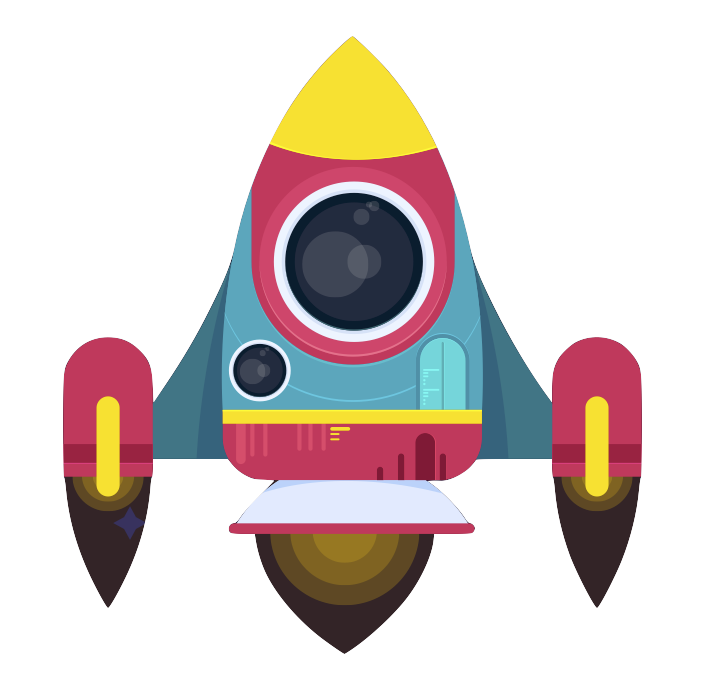
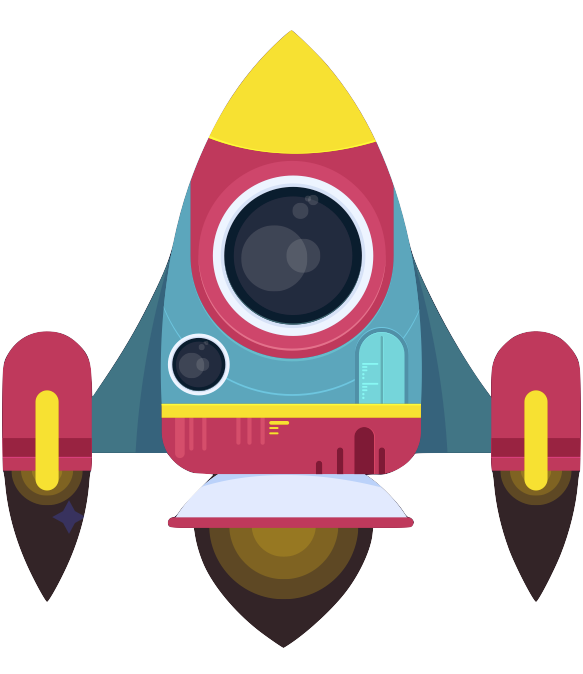
added shooting from ship

Changed region(s): [[0.0, 0.0312, 1.0, 0.9659], [0.5249, 0.3427, 0.5557, 0.405]]

diff --git a/index.html b/index.html
@@ -48,6 +48,7 @@
     const asteroid4 = document.getElementById("asteroid4")
     const gameWhere = game.getBoundingClientRect()
     const gameLeft = gameWhere.left
+    const gameHeight = gameWhere.height
     const asteroidWhere1 = asteroid1.getBoundingClientRect()
     const asteroidWhere2 = asteroid2.getBoundingClientRect()
     const asteroidWhere3 = asteroid3.getBoundingClientRect()
@@ -93,8 +94,6 @@
     function moveBullets() {
         for (bullet of bullets) {
             let bottomStr = bullet.style.bottom
-            console.log("bottomstr", bottomStr)
-            console.log("bottom", bottomStr.slice(0, -2))
             if (bottomStr.endsWith("vh")) {
             bottomStr = bullet.style.bottom.slice(0,-2)
             } else {
@@ -102,7 +101,7 @@
             }
             let bottom = parseFloat(bottomStr, 10)
             bottom += 2
-            if (bottom >= 88) {
+            if (bottom >= 88) {//here need to convert to vh or px to be determined
                 bullet.remove()
             } else {
             bullet.style.bottom = bottom + 'vh';
@@ -177,6 +176,88 @@
 
     moveShip()
    
+</script>
+
+<script>
+    const myShip = document.getElementById("myShip")
+    let shipPrevPostion = myShip.getBoundingClientRect().left
+    const shipBulletWidth = 0.99933
+    let shipBullets = []
+    let animating = false
+
+    function vwToPx(vw) {
+        return (vw / 100) * window.innerWidth;
+    }
+
+    function pxToVw(px) {
+        return (px / window.innerWidth) * 100;
+    }
+
+    function pxToVh(px) {
+        return (px / window.innerHeight) * 100;
+    }
+
+    function vhToPx(vh) {
+        return (vh / 100) * window.innerHeight;
+    }
+
+    var intervalId;
+
+    document.addEventListener("keydown", (event) => {
+        if (event.key === "s") {
+            if (!intervalId) {
+            createBullets()
+            intervalId = setInterval(createBullets, 200)
+            }
+            if (!animating) {
+            shootBullet()
+            animating = true
+            }
+        } 
+    })
+
+    document.addEventListener("keyup", (event) => {
+        if (event.key === "s") {
+            clearInterval(intervalId);
+            intervalId = null;
+        }
+    })
+
+    function createBullets() {
+        let shipRect = myShip.getBoundingClientRect();
+        let shipLeft = shipRect.left;
+        let shipRight = shipRect.right;
+        let shipHeight = shipRect.height;
+        const bulletStart = shipLeft + shipRect.width/2 - gameLeft - vwToPx(shipBulletWidth)/2;
+        const shipBullet = document.createElement("img")
+        shipBullet.src = "images/fire.png"
+        shipBullet.style.width = "1vw";
+        const bottomBullet = 0.5 + pxToVh(shipHeight); 
+        shipBullet.style.bottom = bottomBullet + "vh";
+        shipBullet.style.position = "absolute";
+        shipBullet.style.left = bulletStart + "px";
+        shipBullets.push(shipBullet)
+        game.appendChild(shipBullet)
+    }
+    
+    function shootBullet() {
+       
+        for (bullet of shipBullets) {
+            let bulletRect = bullet.getBoundingClientRect()
+            let bulletHeight = bulletRect.height
+            let bulletBottomstr = bullet.style.bottom.slice(0,-2)
+            let bulletBottomNum = vhToPx(parseFloat(bulletBottomstr, 10))
+            if (bulletBottomNum + bulletHeight + 5 < gameHeight) {
+                bulletBottomNum += 5;
+                bullet.style.bottom = pxToVh(bulletBottomNum) + "vh";
+            } else {
+                bullet.remove()
+                shipBullets = shipBullets.slice(1)
+            }
+        }
+        requestAnimationFrame(shootBullet)
+    }
+    
 </script>
 
 </html>

diff --git a/index.css b/index.css
@@ -38,7 +38,9 @@
 }
 
 #myShip {
-    width: 10vw;
+    object-fit: contain;   /* ensures it scales without distortion */
+    object-position: center;
+    width: 7vw;
     bottom: 0.5vh;
     left: 50%;
     transform: translateX(-50%);
